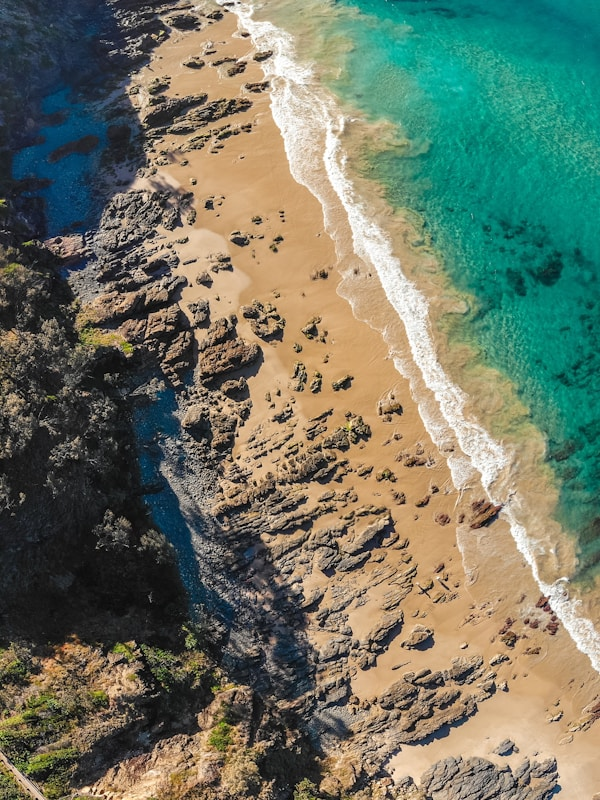
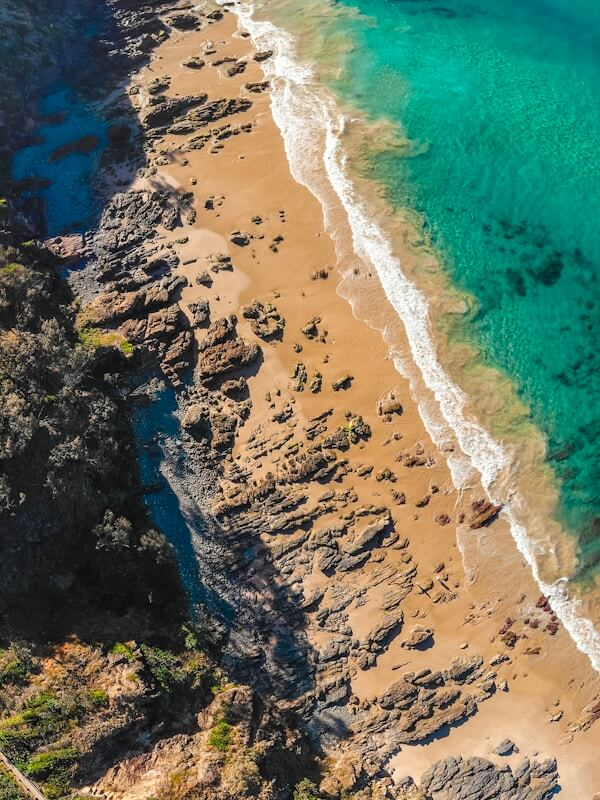
1.优化地图&图片

Changed region(s): [[0.57, 0.0, 1.0, 0.6562], [0.75, 0.0312, 1.0, 0.2188], [0.03, 0.9375, 0.06, 0.9688]]

diff --git a/map.html b/map.html
@@ -4,7 +4,7 @@
     <meta charset="UTF-8">
     <meta name="viewport" content="width=device-width, initial-scale=1.0">
     <title>项目分布地图 - 乡野别居</title>
-    <script src="https://webapi.amap.com/maps?v=2.0&key=c7db209c07ba96a8fc0819bb3e38e0f3&plugin=AMap.Scale,AMap.ToolBar,AMap.Geocoder,AMap.PlaceSearch"></script>
+    <script src="https://webapi.amap.com/maps?v=2.0&key=c7db209c07ba96a8fc0819bb3e38e0f3&plugin=AMap.Scale,AMap.ToolBar,AMap.Geocoder,AMap.PlaceSearch&callback=initAMap"></script>
     <style>
         * { margin: 0; padding: 0; box-sizing: border-box; }
 
@@ -391,6 +391,11 @@
 
 <script>
 // ==========================================
+// 全局变量
+// ==========================================
+let map;  // 高德地图实例
+
+// ==========================================
 // localStorage 数据管理
 // • STORAGE_KEY  → 基础客户（版本升级可重置）
 // • USER_KEY      → 手动新增客户（永不清除）
@@ -515,38 +520,61 @@ function getNextId() {
 let villages = loadVillages();
 
 // ==========================================
-// 初始化高德地图
+// 初始化高德地图（由 API callback 自动调用）
 // ==========================================
-const map = new AMap.Map('map', {
-    zoom: 12,
-    center: [115.08, 33.46], // 沈丘县中心
-    resizeEnable: true
-});
-map.addControl(new AMap.Scale({ unit: 'metric', showButton: false }));
-map.addControl(new AMap.ToolBar({ position: 'RT' }));
+function initAMap() {
+    // 初始化高德地图
+    map = new AMap.Map('map', {
+        zoom: 12,
+        center: [115.08, 33.46], // 沈丘县中心
+        resizeEnable: true
+    });
+    map.addControl(new AMap.Scale({ unit: 'metric', showButton: false }));
+    map.addControl(new AMap.ToolBar({ position: 'RT' }));
 
-function switchLayer(type) {
-    if (type === 'street') {
-        map.setLayers([new AMap.TileLayer()]);
-        document.getElementById('btnStreet').classList.add('active');
-        document.getElementById('btnSatellite').classList.remove('active');
-    } else {
-        map.setLayers([new AMap.TileLayer.Satellite(), new AMap.TileLayer.RoadNet()]);
-        document.getElementById('btnSatellite').classList.add('active');
-        document.getElementById('btnStreet').classList.remove('active');
-    }
-}
-function locateAll() { map.setZoomAndCenter(12, [115.08, 33.46]); }
-
-// 手动刷新地图标注
-function refreshMap() {
-    villages = loadVillages();
-    Object.values(markerMap).forEach(m => { try { m.setMap(null); } catch(e) {} });
-    for (let k in markerMap) delete markerMap[k];
-    listEl.innerHTML = '';
+    // 渲染所有标注
     villages.forEach(v => renderVillage(v));
     updateCount();
-    showToast(`✅ 已刷新 ${villages.length} 个客户标注`);
+
+    // 渲染公司标注
+    const companyPopupHtml = `<div style="background:white;border-radius:10px;box-shadow:0 4px 20px rgba(0,0,0,0.18);padding:14px 16px;min-width:200px;font-family:-apple-system,'PingFang SC',sans-serif;position:relative;"><div onclick="closeInfo()" style="position:absolute;top:8px;right:10px;cursor:pointer;color:#aaa;font-size:15px;">&#x2715;</div><div style="font-size:1rem;font-weight:bold;color:#c0392b;margin-bottom:7px;padding-bottom:7px;border-bottom:1px solid #fde8e8;">&#9733; 范营大包建房公司</div><div style="font-size:0.82rem;color:#555;line-height:1.9;">地址：沈丘县范营乡村委西50米</div><div style="font-size:0.82rem;color:#555;line-height:1.9;">电话：13522120000</div><div style="font-size:0.82rem;color:#555;line-height:1.9;">时间：8:00～20:00</div><div style="margin-top:6px;"><span style="background:#fdecea;color:#c0392b;padding:2px 9px;border-radius:4px;font-size:0.75rem;">公司总部</span></div><div style="width:0;height:0;border-left:8px solid transparent;border-right:8px solid transparent;border-top:8px solid white;position:absolute;bottom:-8px;left:50%;transform:translateX(-50%);"></div></div>`;
+    const companyMarker = new AMap.Marker({
+        position: new AMap.LngLat(companyPos[0], companyPos[1]),
+        content: `<div style="display:flex;flex-direction:column;align-items:center;cursor:pointer;"><div style="width:42px;height:42px;background:radial-gradient(circle,#e74c3c,#c0392b);color:white;border-radius:50%;display:flex;align-items:center;justify-content:center;box-shadow:0 3px 12px rgba(192,57,43,0.55);border:3px solid white;font-size:22px;line-height:1;">&#9733;</div><div style="margin-top:5px;background:rgba(192,57,43,0.92);color:white;font-size:11px;font-weight:bold;padding:3px 8px;border-radius:10px;white-space:nowrap;">范营大包建房公司</div></div>`,
+        offset: new AMap.Pixel(-40, -60),
+        zIndex: 200
+    });
+    companyMarker.setMap(map);
+    companyMarker.on('click', () => { infoWindow.setContent(companyPopupHtml); infoWindow.open(map, companyMarker.getPosition()); });
+
+    // 页面重新获得焦点时（从 customer.html 返回），强制刷新数据和列表
+    window.addEventListener('focus', function() {
+        // 总是重新加载最新数据（不做比较，避免浮点精度问题）
+        const fresh = loadVillages();
+        villages = fresh;
+        // 清除旧标注
+        Object.values(markerMap).forEach(m => {
+            try { m.setMap(null); } catch(e) {}
+        });
+        for (let k in markerMap) delete markerMap[k];
+        // 清除旧列表
+        listEl.innerHTML = '';
+        // 重新渲染
+        villages.forEach(v => renderVillage(v));
+        updateCount();
+        console.log('🔄 页面 focus，已刷新', villages.length, '个客户');
+
+        // 强制触发地图 resize，防止从 BFCache 返回后地图空白
+        setTimeout(() => { map.resize(); }, 100);
+    });
+
+    // 同时监听 visibilitychange，处理标签页切换场景
+    document.addEventListener('visibilitychange', function() {
+        if (!document.hidden) {
+            // 页面变为可见时，延迟触发地图 resize
+            setTimeout(() => { map.resize(); }, 100);
+        }
+    });
 }
 
 // ==========================================
@@ -602,18 +630,9 @@ function calcDist(pos1, pos2) {
 }
 
 // ==========================================
-// 公司总部标注（红星）
+// 公司总部标注（红星）- 在 initAMap 中定义
 // ==========================================
 const companyPos = [115.0020, 33.4730];
-const companyMarker = new AMap.Marker({
-    position: new AMap.LngLat(companyPos[0], companyPos[1]),
-    content: `<div style="display:flex;flex-direction:column;align-items:center;cursor:pointer;"><div style="width:42px;height:42px;background:radial-gradient(circle,#e74c3c,#c0392b);color:white;border-radius:50%;display:flex;align-items:center;justify-content:center;box-shadow:0 3px 12px rgba(192,57,43,0.55);border:3px solid white;font-size:22px;line-height:1;">&#9733;</div><div style="margin-top:5px;background:rgba(192,57,43,0.92);color:white;font-size:11px;font-weight:bold;padding:3px 8px;border-radius:10px;white-space:nowrap;">范营大包建房公司</div></div>`,
-    offset: new AMap.Pixel(-40, -60),
-    zIndex: 200
-});
-companyMarker.setMap(map);
-const companyPopupHtml = `<div style="background:white;border-radius:10px;box-shadow:0 4px 20px rgba(0,0,0,0.18);padding:14px 16px;min-width:200px;font-family:-apple-system,'PingFang SC',sans-serif;position:relative;"><div onclick="closeInfo()" style="position:absolute;top:8px;right:10px;cursor:pointer;color:#aaa;font-size:15px;">&#x2715;</div><div style="font-size:1rem;font-weight:bold;color:#c0392b;margin-bottom:7px;padding-bottom:7px;border-bottom:1px solid #fde8e8;">&#9733; 范营大包建房公司</div><div style="font-size:0.82rem;color:#555;line-height:1.9;">地址：沈丘县范营乡村委西50米</div><div style="font-size:0.82rem;color:#555;line-height:1.9;">电话：13522120000</div><div style="font-size:0.82rem;color:#555;line-height:1.9;">时间：8:00～20:00</div><div style="margin-top:6px;"><span style="background:#fdecea;color:#c0392b;padding:2px 9px;border-radius:4px;font-size:0.75rem;">公司总部</span></div><div style="width:0;height:0;border-left:8px solid transparent;border-right:8px solid transparent;border-top:8px solid white;position:absolute;bottom:-8px;left:50%;transform:translateX(-50%);"></div></div>`;
-companyMarker.on('click', () => { infoWindow.setContent(companyPopupHtml); infoWindow.open(map, companyMarker.getPosition()); });
 
 // ==========================================
 // 渲染标注 & 侧边栏（可复用）
@@ -773,6 +792,33 @@ document.addEventListener('visibilitychange', function() {
         setTimeout(() => { map.resize(); }, 100);
     }
 });
+
+// ==========================================
+// 地图图层切换 & 刷新
+// ==========================================
+function switchLayer(type) {
+    if (type === 'street') {
+        map.setLayers([new AMap.TileLayer()]);
+        document.getElementById('btnStreet').classList.add('active');
+        document.getElementById('btnSatellite').classList.remove('active');
+    } else {
+        map.setLayers([new AMap.TileLayer.Satellite(), new AMap.TileLayer.RoadNet()]);
+        document.getElementById('btnSatellite').classList.add('active');
+        document.getElementById('btnStreet').classList.remove('active');
+    }
+}
+function locateAll() { map.setZoomAndCenter(12, [115.08, 33.46]); }
+
+// 手动刷新地图标注
+function refreshMap() {
+    villages = loadVillages();
+    Object.values(markerMap).forEach(m => { try { m.setMap(null); } catch(e) {} });
+    for (let k in markerMap) delete markerMap[k];
+    listEl.innerHTML = '';
+    villages.forEach(v => renderVillage(v));
+    updateCount();
+    showToast(`✅ 已刷新 ${villages.length} 个客户标注`);
+}
 
 
 // Toast 提示
